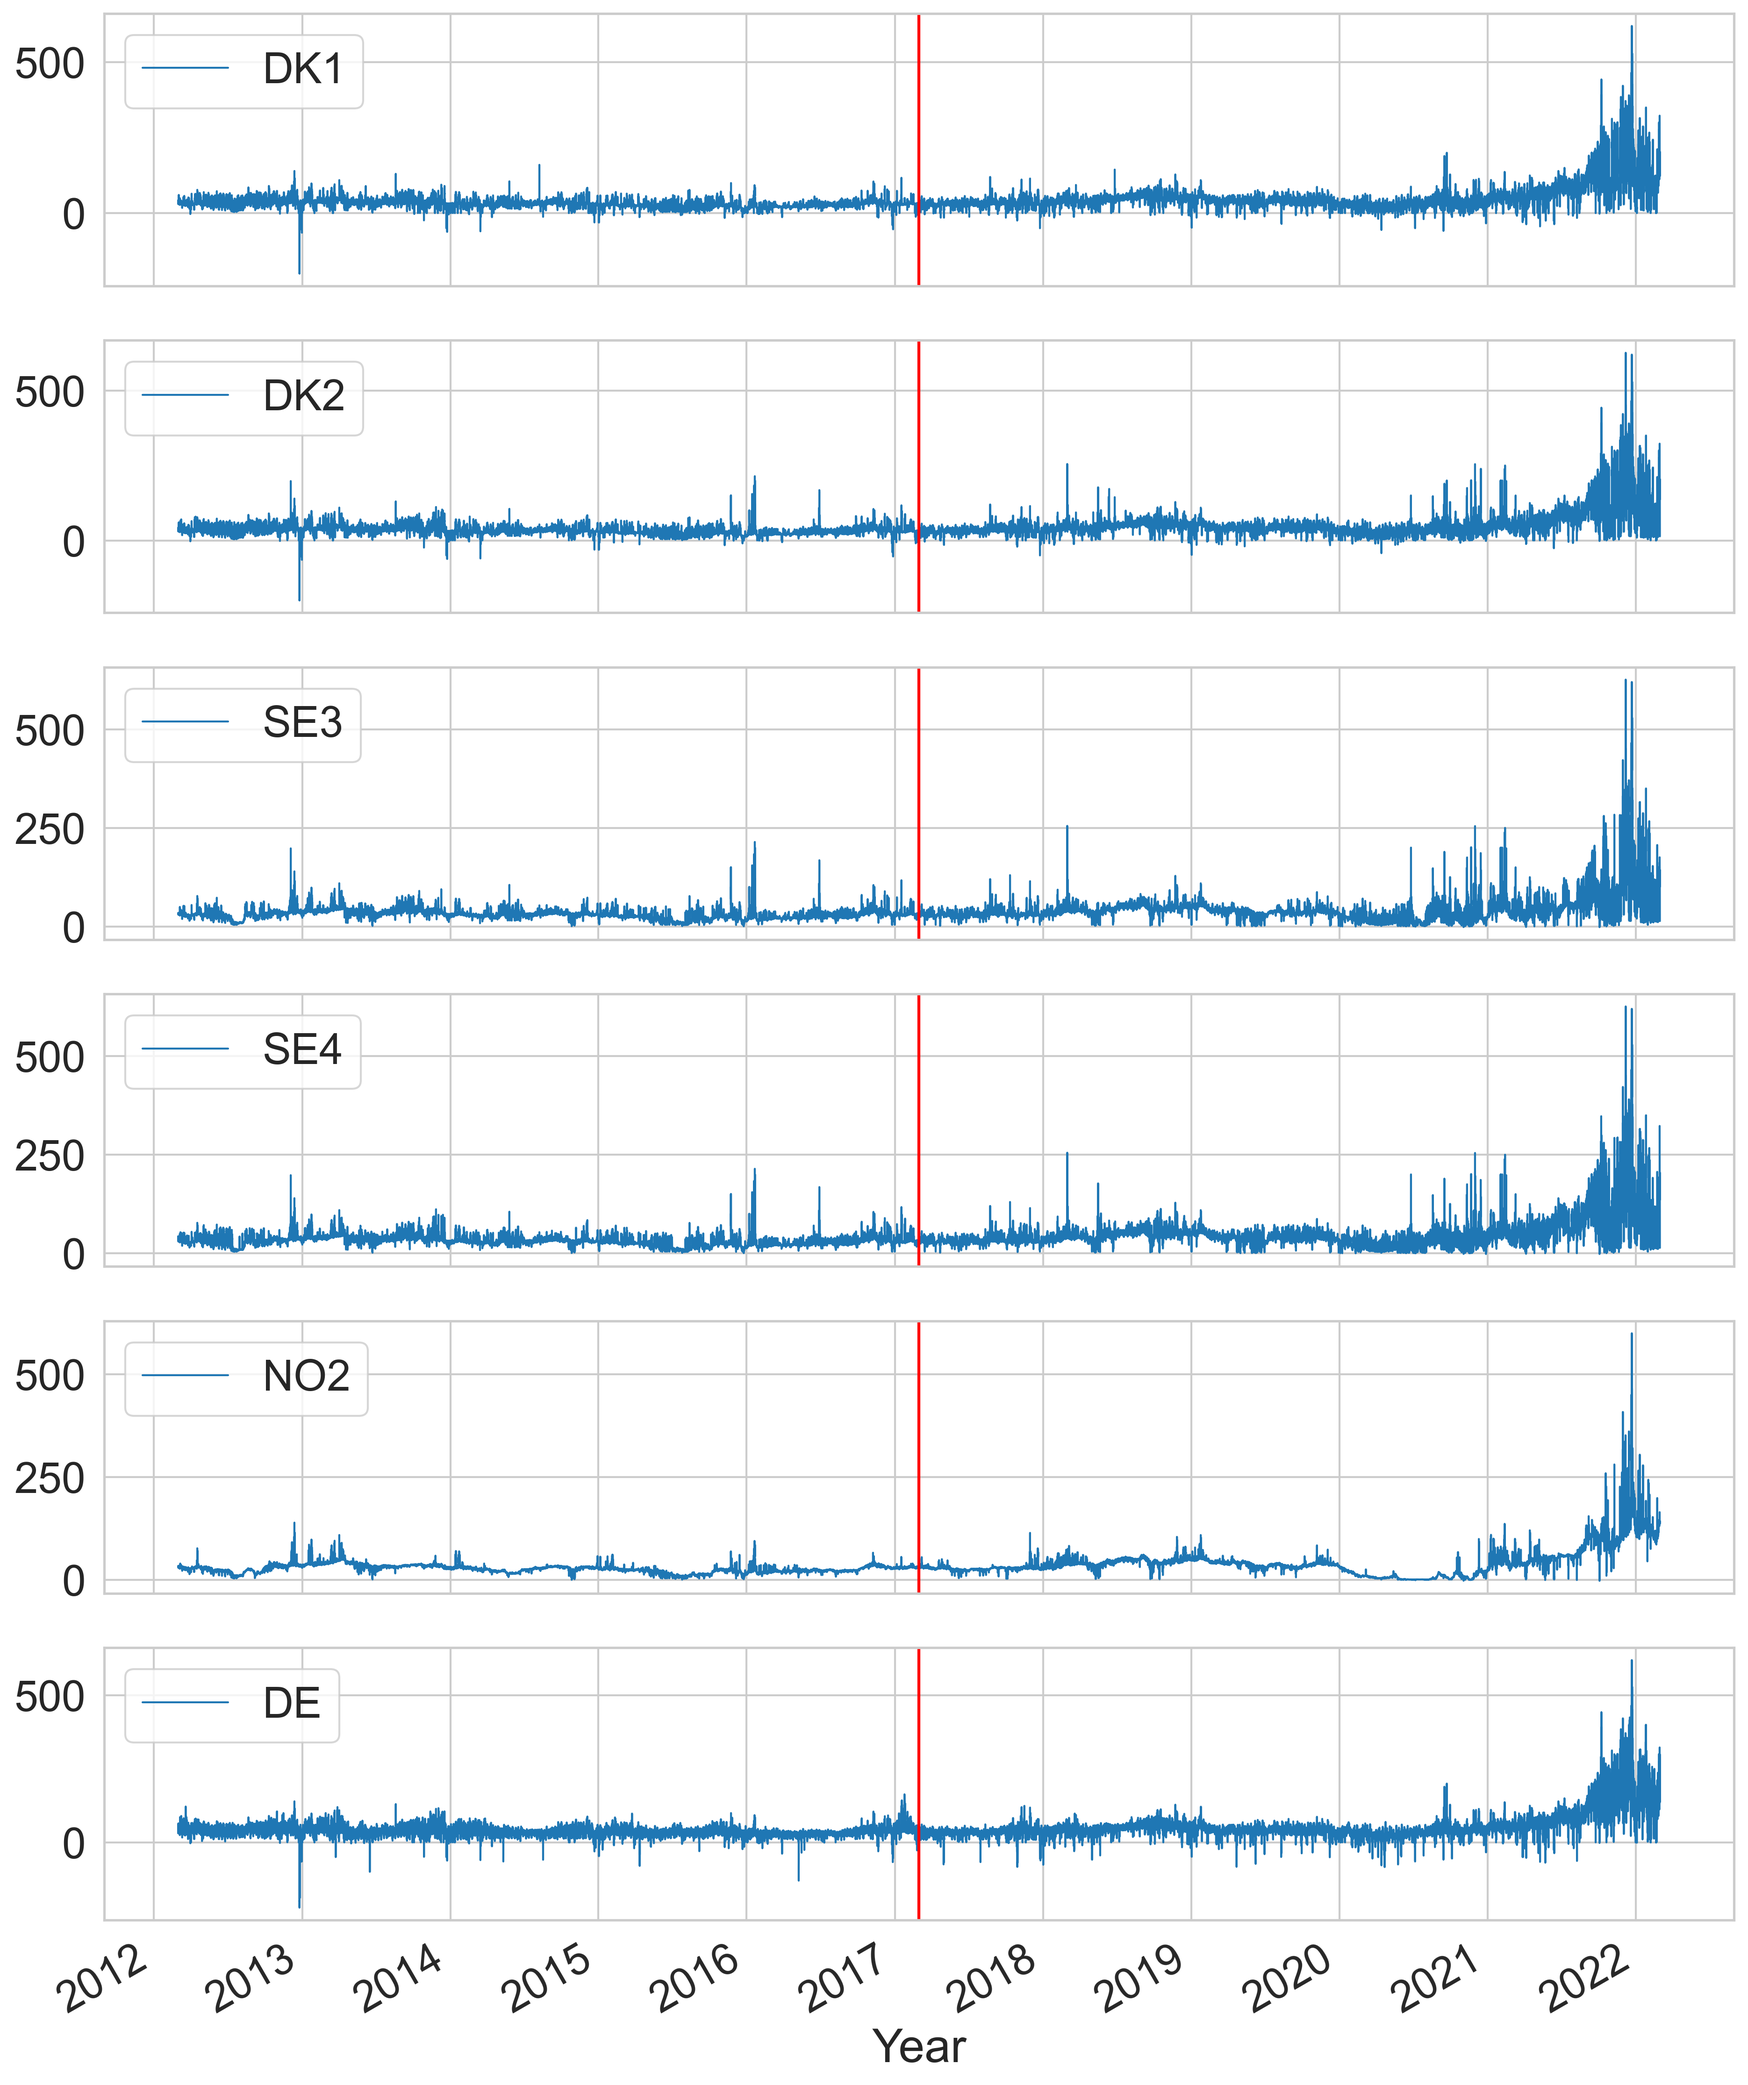
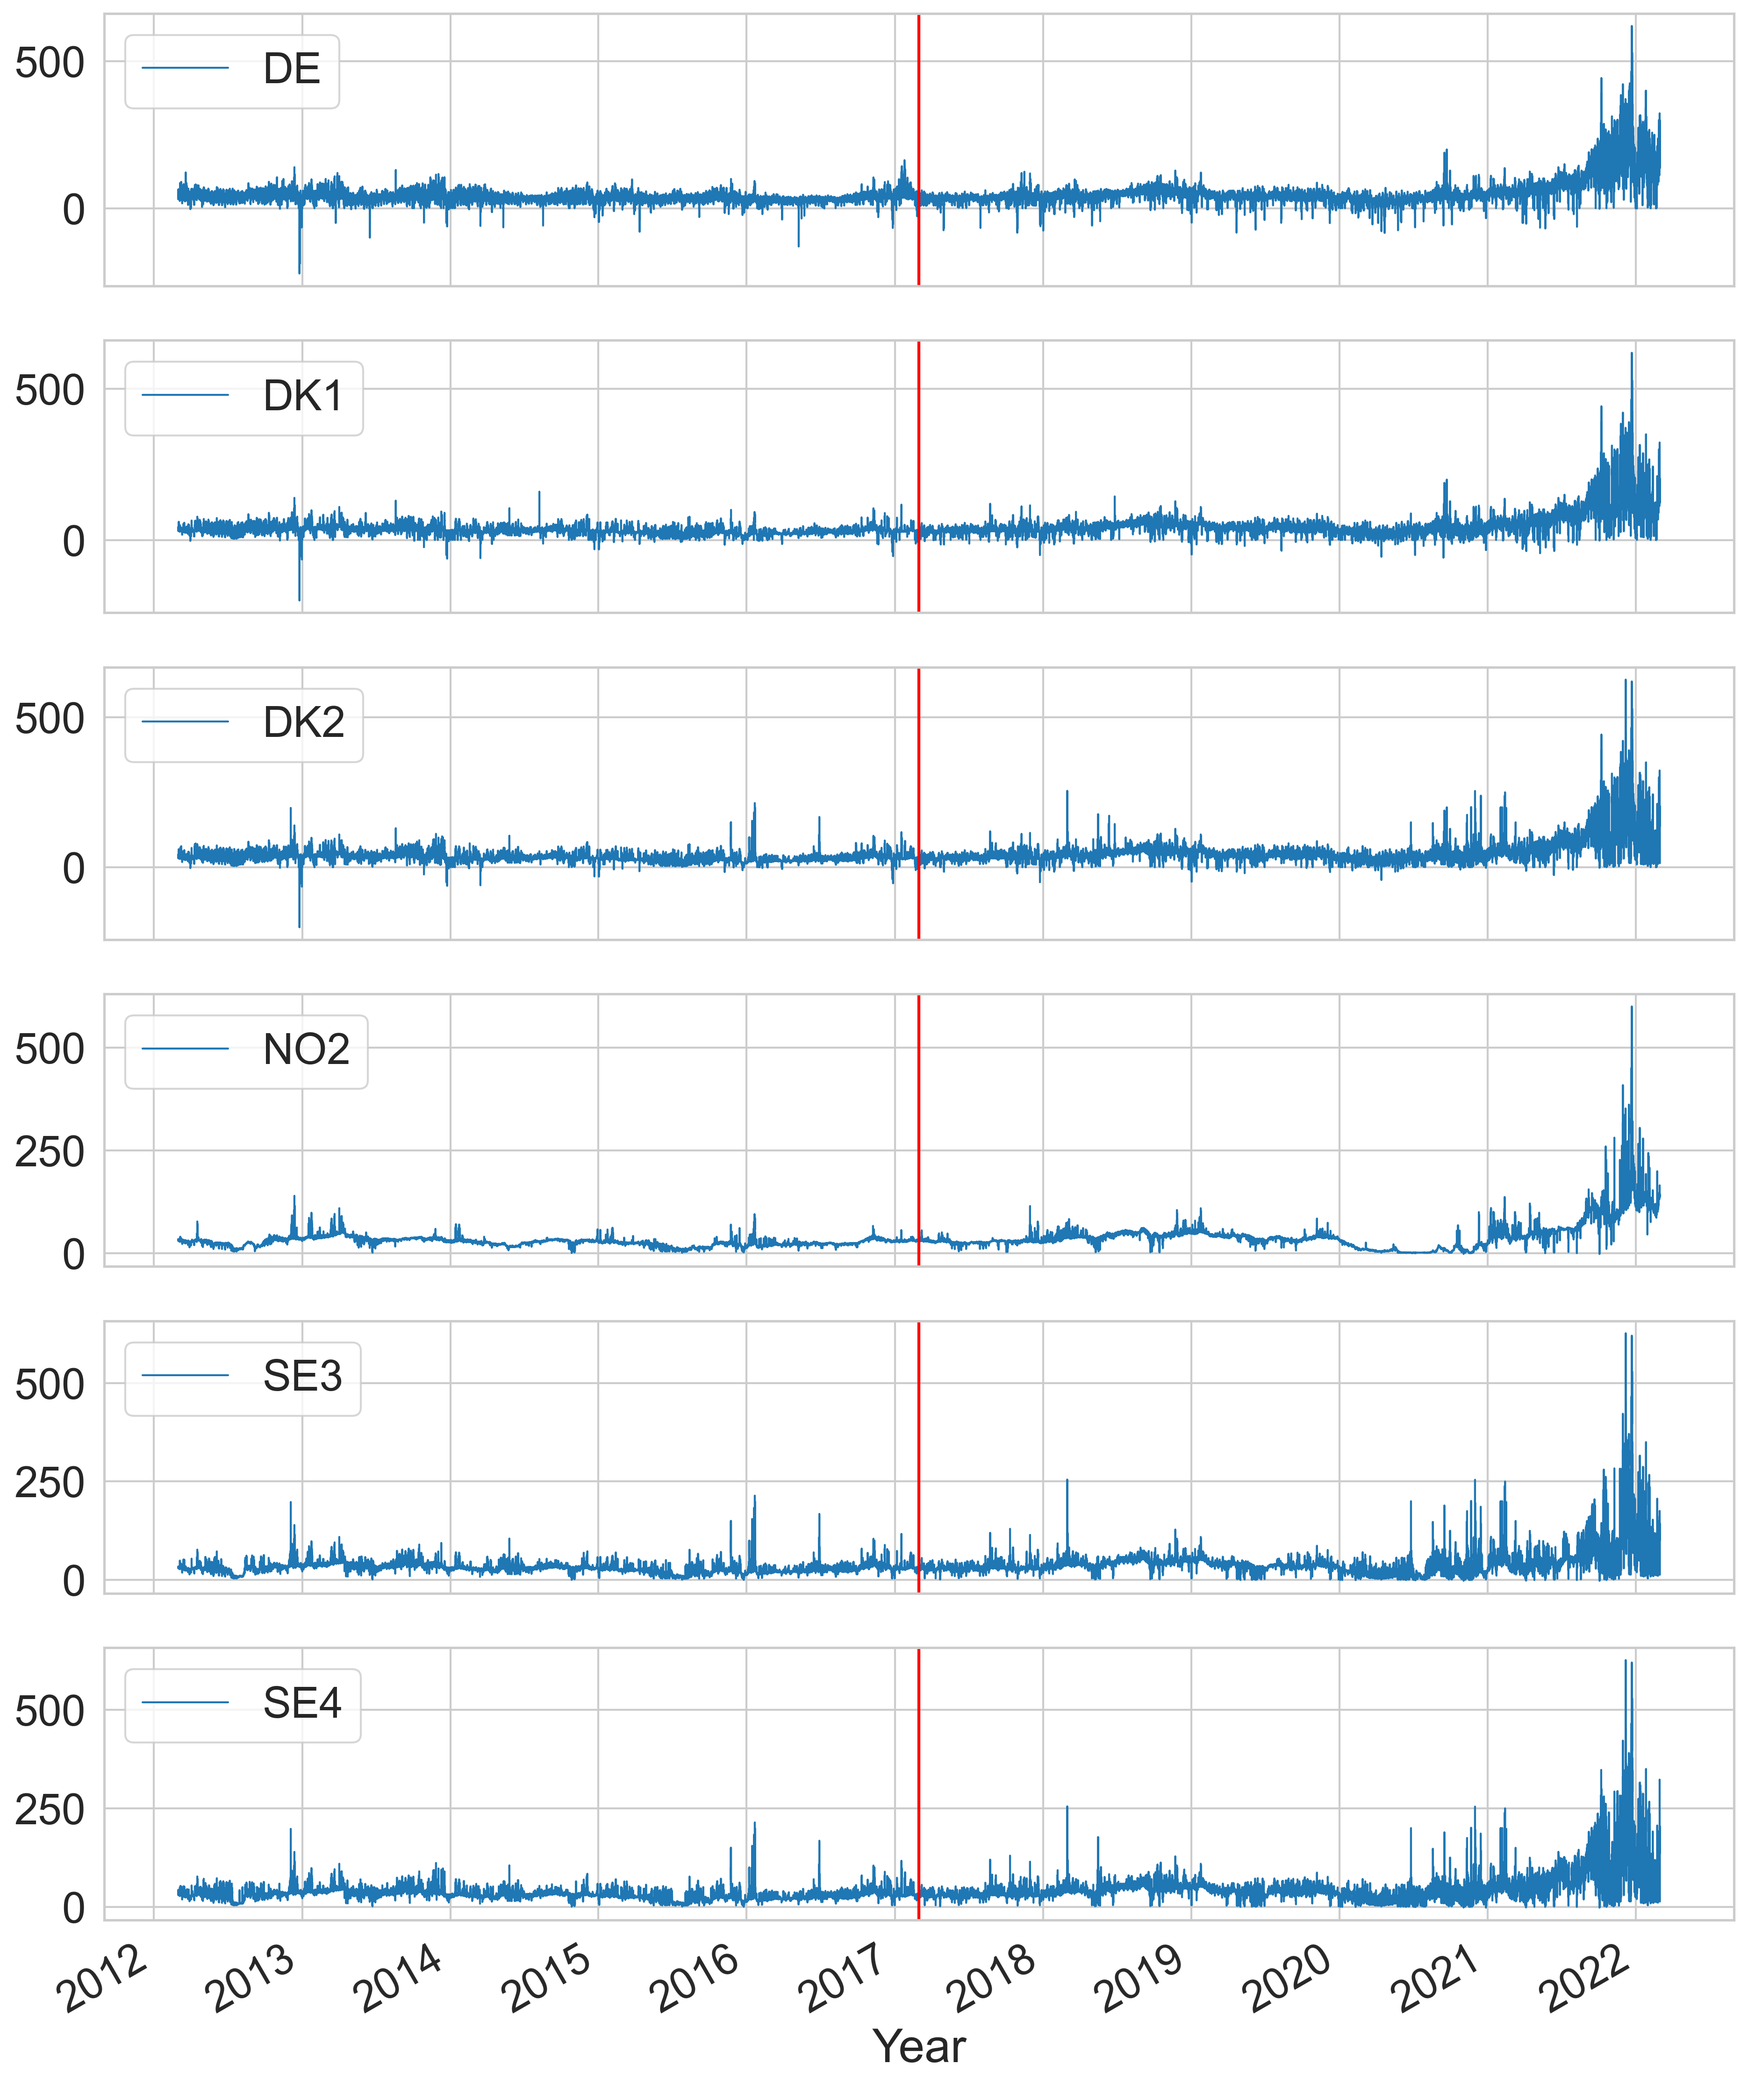
cleaned up introduction plots

diff --git a/Data Visualisation/Elprice-introduction.py b/Data Visualisation/Elprice-introduction.py
@@ -40,13 +40,12 @@ df['DK1'].plot(linewidth = 1,
 #%% plot all series 
 fig, axes= plt.subplots(6,1)
 
-
-df[['DK1']].plot(linewidth = 1, xlabel = 'Year', color = 'tab:blue',ax=axes[0],sharex = True)
-df[['DK2']].plot(linewidth = 1, xlabel = 'Year', color = 'tab:blue',ax=axes[1],sharex = True)
-df[['SE3']].plot(linewidth = 1, xlabel = 'Year', color = 'tab:blue',ax=axes[2])
-df[['SE4']].plot(linewidth = 1, xlabel = 'Year', color = 'tab:blue',ax=axes[3])
-df[['NO2']].plot(linewidth = 1, xlabel = 'Year', color = 'tab:blue',ax=axes[4])
-df[['DE']].plot(linewidth = 1, xlabel = 'Year', color = 'tab:blue',ax=axes[5])
+df[['DE']].plot(linewidth = 1, xlabel = 'Year', color = 'tab:blue',ax=axes[0],sharex=True)
+df[['DK1']].plot(linewidth = 1, xlabel = 'Year', color = 'tab:blue',ax=axes[1],sharex = True)
+df[['DK2']].plot(linewidth = 1, xlabel = 'Year', color = 'tab:blue',ax=axes[2],sharex = True)
+df[['NO2']].plot(linewidth = 1, xlabel = 'Year', color = 'tab:blue',ax=axes[3])
+df[['SE3']].plot(linewidth = 1, xlabel = 'Year', color = 'tab:blue',ax=axes[4])
+df[['SE4']].plot(linewidth = 1, xlabel = 'Year', color = 'tab:blue',ax=axes[5])
 for i in range(len(axes)):
     axes[i].axvline(pd.Timestamp("2017-03-01"), color='red')
 plt.show()

diff --git a/Data/data-descriptive.py b/Data/data-descriptive.py
@@ -145,7 +145,9 @@ def adf_test(series,title=''):
         print("Fail to reject the null hypothesis")
         print(bcolors.WARNING + series.name + " Series Data has a unit root and is non-stationary " + bcolors.ENDC)
 
-#%% run ADF test on all HMV series     
+#%% run ADF test on all HMV series    
+import sys
+sys.stdout = open('C:/Users/timon/Desktop/file.txt',"w")
 print(bcolors.BOLD + bcolors.UNDERLINE + "RUN ADF TESTS ON HMV SERIES:" + bcolors.ENDC)  
 for column in HMV.columns[0:]:
     print(bcolors.UNDERLINE + "ADF Testing for " + column + " Series of Type HMV:" + bcolors.ENDC)
